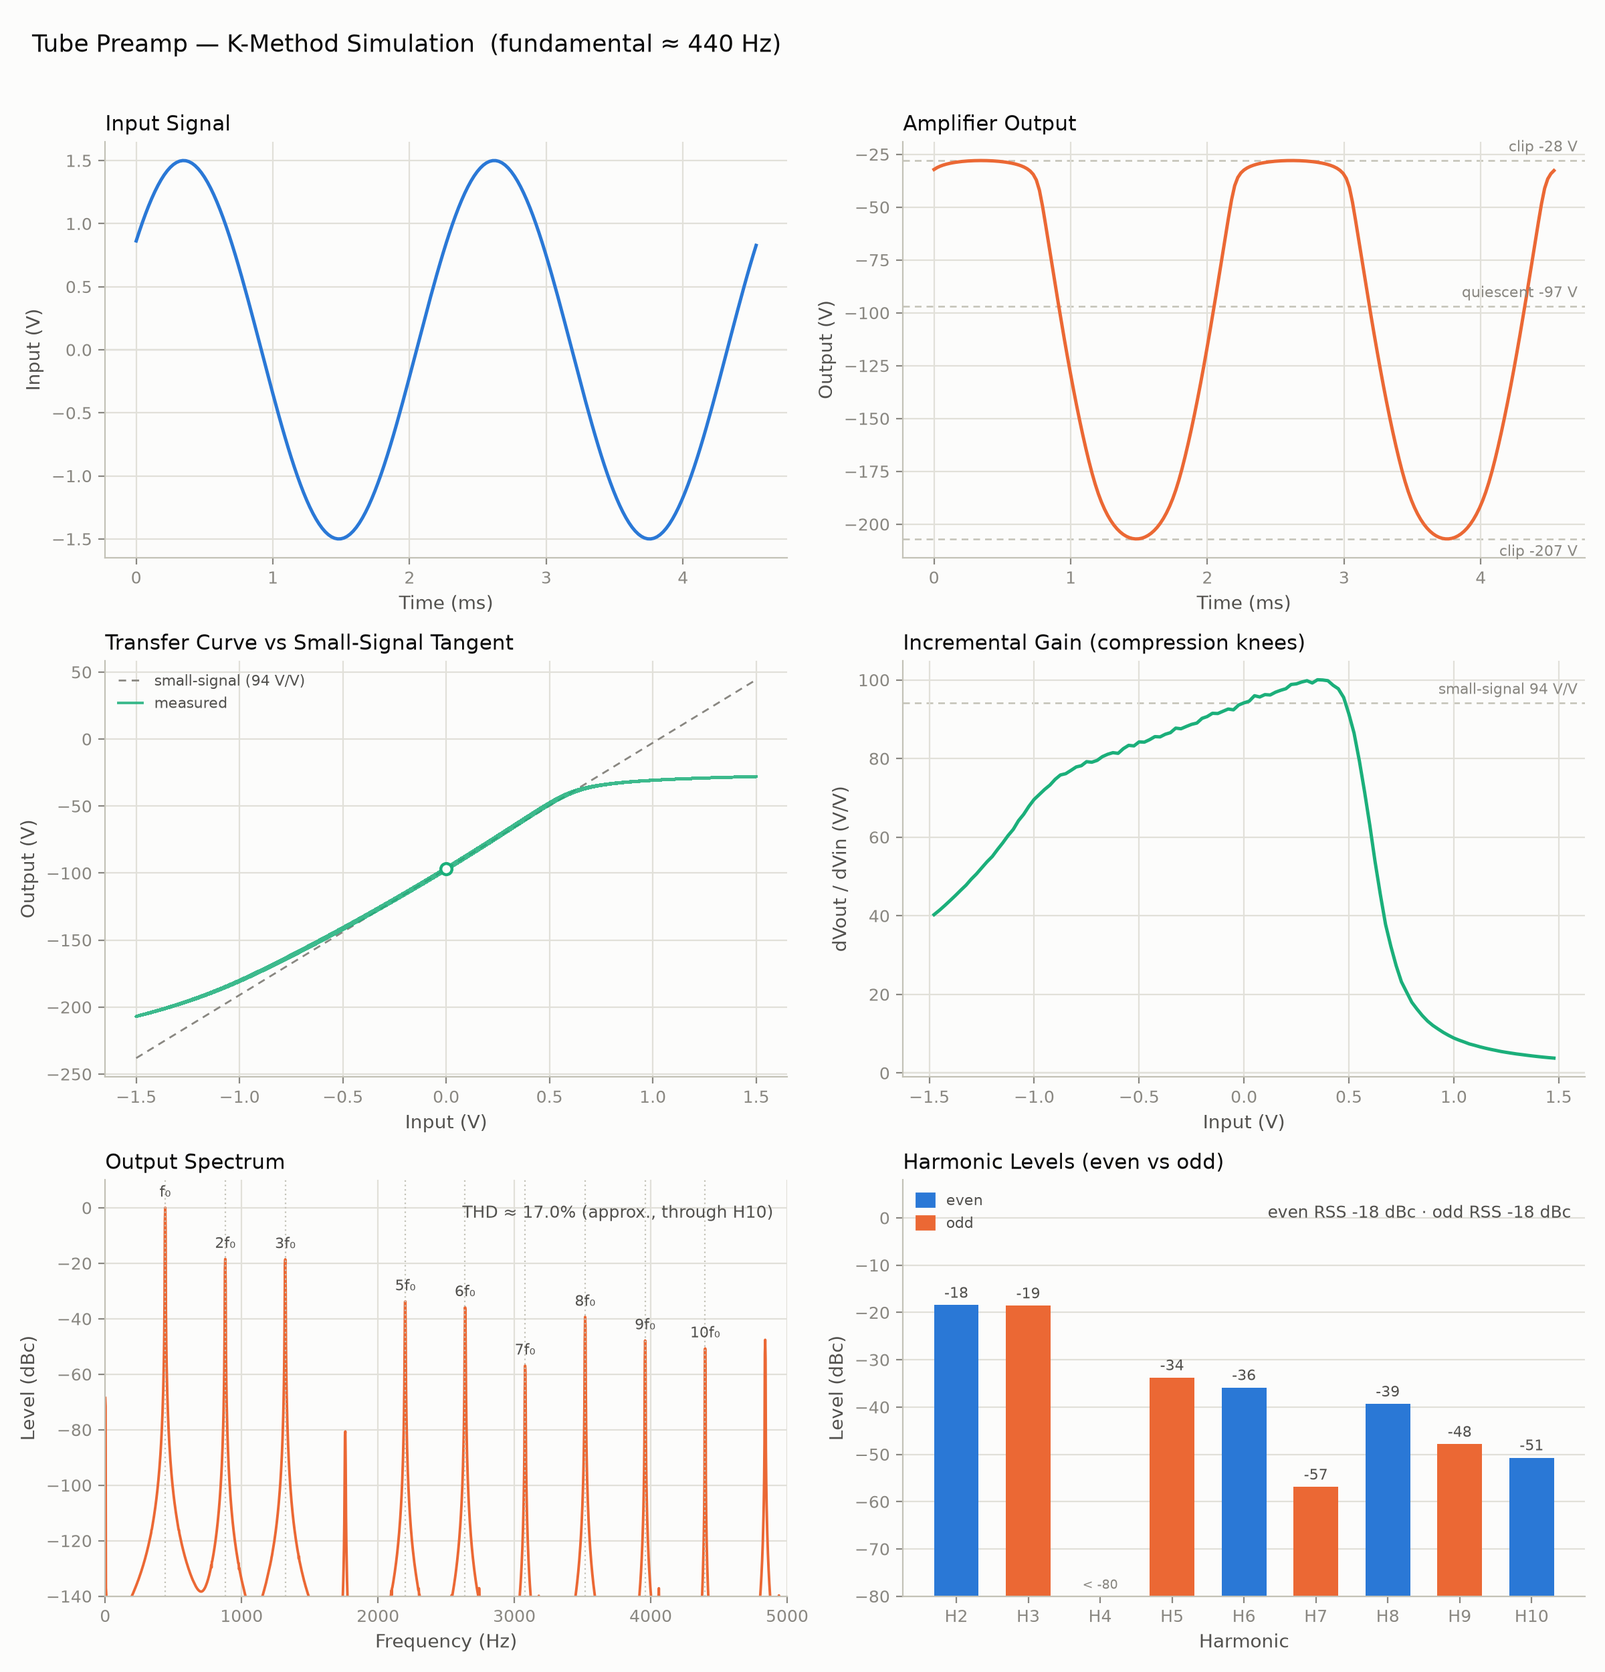
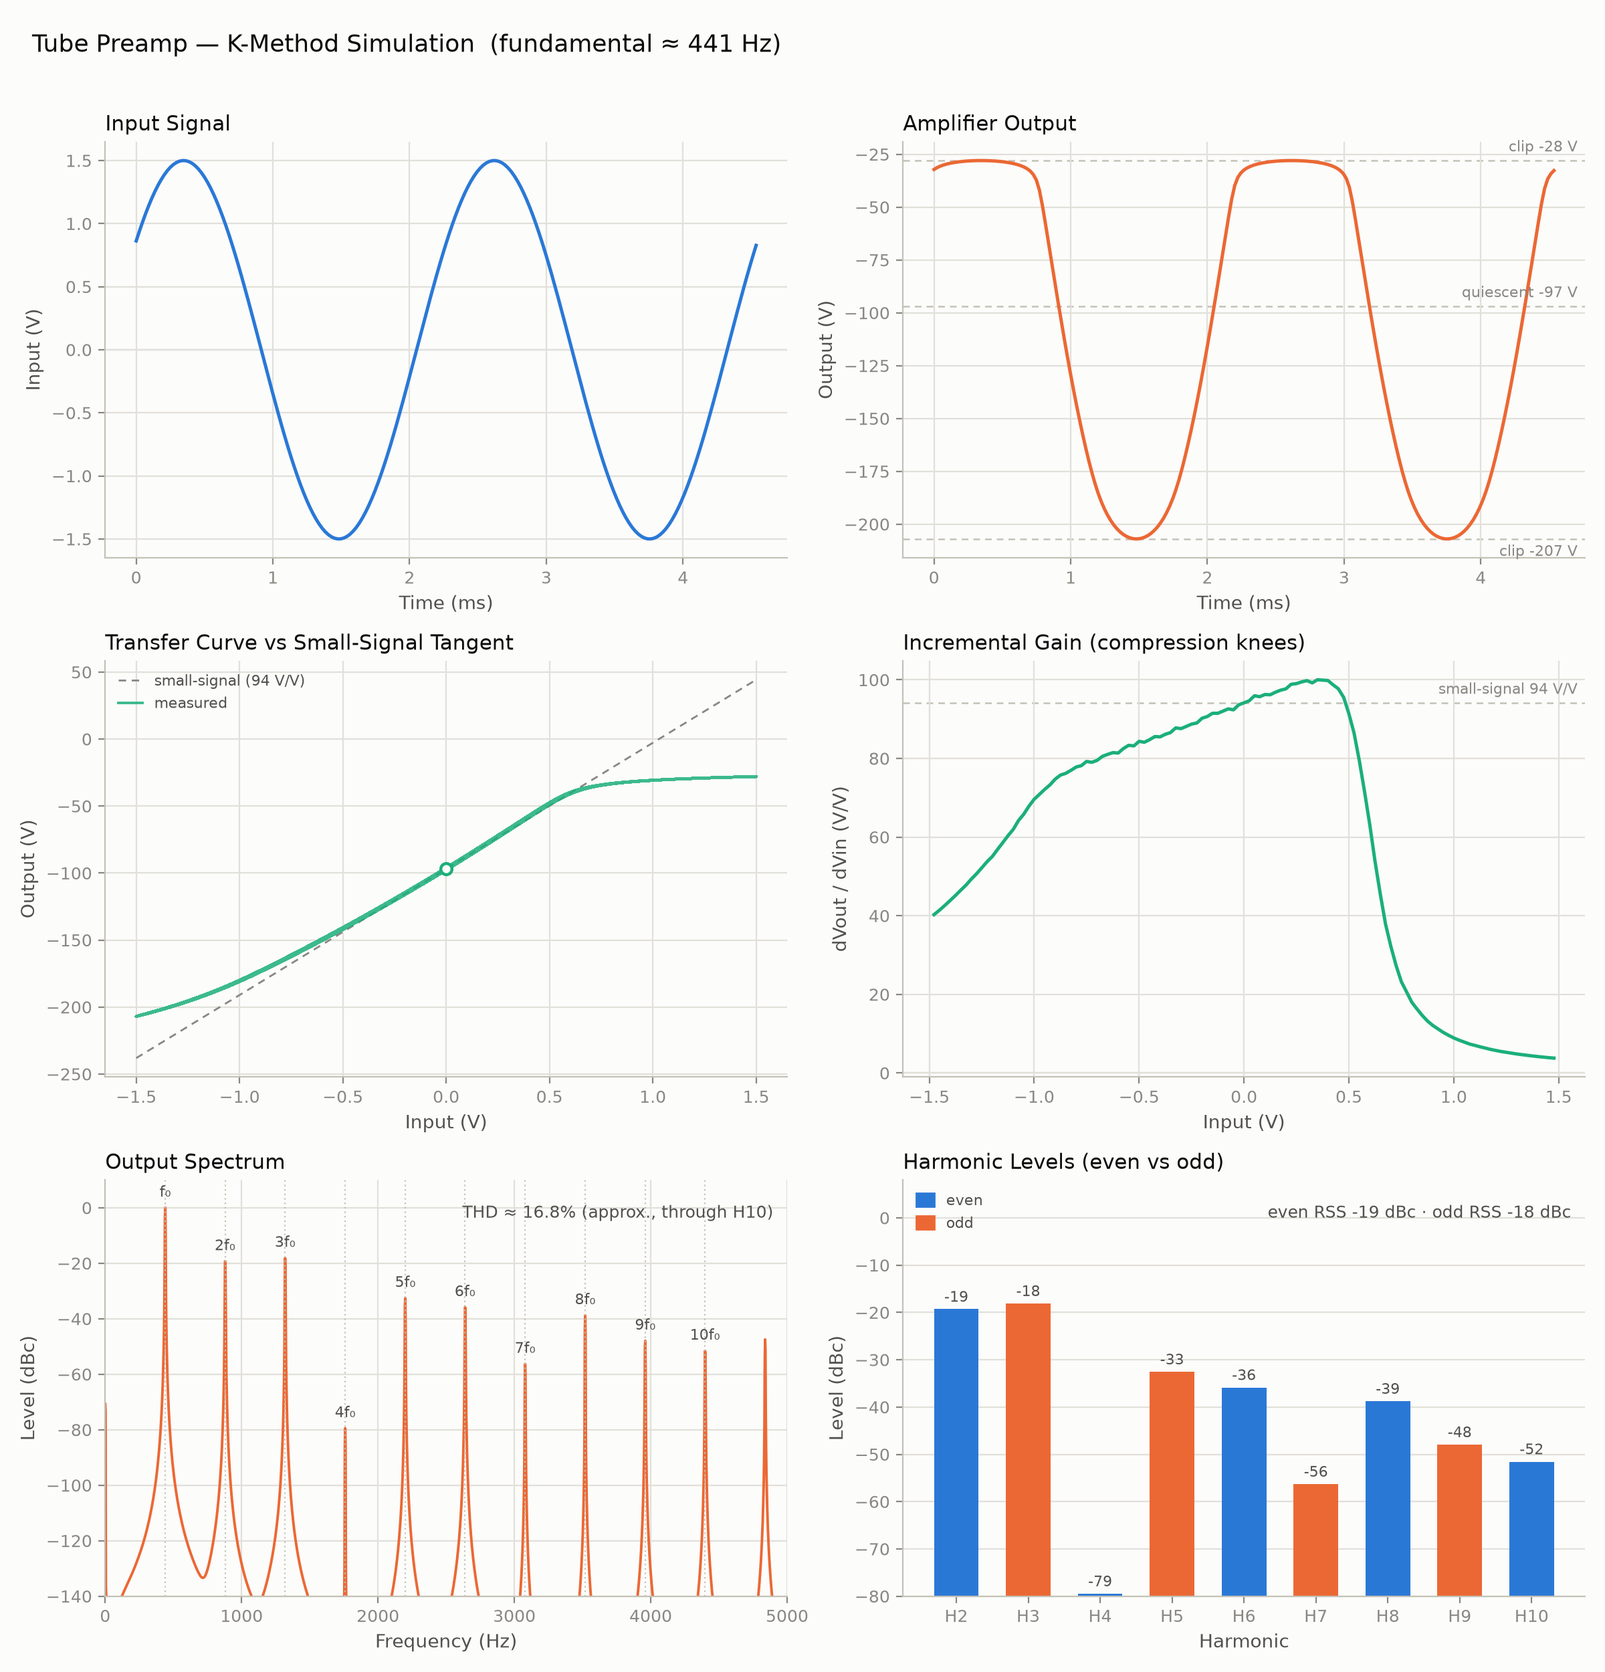
Add analytic Jacobian and 8x oversampling
Analytic Jacobian: TubeModel gains grid_current_dvgk and
anode_current_derivatives (chain rule through the Koren softplus, which
differentiates to a logistic sigmoid); compute_jacobian fills the 6
structurally nonzero entries instead of 8 finite-difference current
evaluations. Where the +/-50 exp clamp saturates, the implemented softplus
is constant, so the derivative is exactly zero there. Verified against
central differences to 4e-7 relative error across all presets; ~2x faster
end-to-end at the same rate.

Oversampling: the nonlinear loop runs at sample_rate * oversample_factor
(default 8, 1 disables) so clipping harmonics fall below the internal
Nyquist instead of aliasing into the audio band. One linear-phase Kaiser
windowed-sinc lowpass (~90 dB, transition 0.9-1.0x base Nyquist) serves as
interpolation and decimation filter; its group delay is compensated exactly
and the filter-edge tail is trimmed. process() now exposes output_offset()
so callers align input and output sample-exactly, and main() reports
processing time (2.25x real-time at 8x).

ngspice cross-validation passes unchanged: DC point identical, transfer
curve mean deviation 4 mV, harmonics within 0.01 dB. Example figures
regenerated; the spectrum floor is cleaner and H4 now resolves at -79 dBc.

diff --git a/main.cpp b/main.cpp
@@ -20,6 +20,8 @@
 #include <iomanip>
 #include <map>
 #include <stdexcept>
+#include <utility>
+#include <chrono>
 #include <Eigen/Dense>
 
 // Constants
@@ -34,12 +36,17 @@ namespace Constants {
     // far more generous iteration budget than the per-sample solve.
     constexpr int DC_SOLVE_MAX_ITERATIONS = 200;
     constexpr double EXP_CLAMP_LIMIT = 50.0;
-    constexpr double JACOBIAN_STEP_SIZE = 1e-7;
     constexpr double DAMPING_REDUCTION_FACTOR = 0.5;
     constexpr double DAMPING_GROWTH_FACTOR = 1.1;
     // Koren's (1 + sign(E1)) term for E1 > 0.
     constexpr double TUBE_IA_SCALE_FACTOR = 2.0;
     constexpr size_t MAX_CONVERGENCE_WARNINGS = 10;
+    // Anti-aliasing/interpolation filter for oversampled runs: ~90 dB Kaiser
+    // design with the transition band from 0.9x to 1.0x the base-rate
+    // Nyquist, which sets the tap count per unit of oversampling factor.
+    constexpr double OS_FILTER_KAISER_BETA = 8.96;
+    constexpr size_t OS_FILTER_TAPS_PER_FACTOR = 115;
+    constexpr double OS_FILTER_CUTOFF_BASE = 0.475;  // cycles/sample at base rate
 }
 
 // Type aliases
@@ -109,9 +116,130 @@ public:
                             std::pow(ip, p_.ex) / p_.kg);
     }
 
+    // d(grid_current)/d(vgk). The softplus knee differentiates to a logistic
+    // sigmoid; epsilon > 1 keeps the power-term derivative finite at s -> 0.
+    // Where the exp clamp saturates, the implemented softplus is constant, so
+    // its exact derivative is zero (far outside the operating region).
+    double grid_current_dvgk(double vgk) const {
+        const double raw = p_.cg * vgk;
+        if (std::abs(raw) >= Constants::EXP_CLAMP_LIMIT) return 0.0;
+        const double s = std::log1p(std::exp(raw)) / p_.cg;
+        const double sigmoid = 1.0 / (1.0 + std::exp(-raw));
+        return p_.gg * p_.epsilon * std::pow(s, p_.epsilon - 1.0) * sigmoid;
+    }
+
+    // {d(anode_current)/d(vak), d(anode_current)/d(vgk)} by the chain rule
+    // through ip = (vak/kp) * softplus(kp * veff).
+    std::pair<double, double> anode_current_derivatives(double vak, double vgk) const {
+        if (vak <= 0) return {0.0, 0.0};
+
+        const double root = std::sqrt(p_.kvb + vak * vak);
+        const double veff = 1.0 / p_.mu + (vgk + p_.vct) / root;
+        const double raw = p_.kp * veff;
+        const double t = std::clamp(raw,
+                                    -Constants::EXP_CLAMP_LIMIT,
+                                    Constants::EXP_CLAMP_LIMIT);
+        const double sp = std::log1p(std::exp(t));
+        // Where the clamp saturates, sp is constant wrt the voltages and only
+        // the (vak/kp) prefactor of ip still varies.
+        const double sigmoid = (std::abs(raw) < Constants::EXP_CLAMP_LIMIT)
+            ? 1.0 / (1.0 + std::exp(-t)) : 0.0;
+        const double ip = (vak / p_.kp) * sp;
+        if (ip <= 0) return {0.0, 0.0};
+
+        const double dia_dip = Constants::TUBE_IA_SCALE_FACTOR * p_.ex *
+                               std::pow(ip, p_.ex - 1.0) / p_.kg;
+        const double dveff_dvak = -(vgk + p_.vct) * vak / (root * root * root);
+        const double dip_dvak = sp / p_.kp + vak * sigmoid * dveff_dvak;
+        const double dip_dvgk = vak * sigmoid / root;
+        return {dia_dip * dip_dvak, dia_dip * dip_dvgk};
+    }
+
 private:
     const TubeModelParams p_;
 };
+
+// =============================================================================
+//                      RESAMPLING (oversampling support)
+// =============================================================================
+//
+// The nonlinear loop runs at oversample_factor times the output rate so that
+// clipping harmonics fall below the internal Nyquist instead of aliasing into
+// the audio band. One linear-phase Kaiser-windowed-sinc lowpass serves as
+// both the interpolation and the anti-aliasing (decimation) filter; its group
+// delay is an integer number of internal samples and is compensated exactly,
+// keeping the decimated output sample-aligned with the base-rate input.
+
+namespace resample {
+
+double bessel_i0(double x) {
+    double sum = 1.0, term = 1.0;
+    for (int k = 1; k < 64; ++k) {
+        term *= (x * x) / (4.0 * k * k);
+        sum += term;
+        if (term < sum * 1e-16) break;
+    }
+    return sum;
+}
+
+// Odd-length, unity-DC-gain lowpass. cutoff is in cycles per sample at the
+// rate the filter runs at; 0.5 is that rate's Nyquist.
+std::vector<double> kaiser_lowpass(size_t taps, double cutoff, double beta) {
+    const int mid = static_cast<int>(taps - 1) / 2;
+    std::vector<double> h(taps);
+    double sum = 0.0;
+    const double norm = bessel_i0(beta);
+    for (size_t n = 0; n < taps; ++n) {
+        const int m = static_cast<int>(n) - mid;
+        const double sinc = (m == 0)
+            ? 2.0 * cutoff
+            : std::sin(2.0 * M_PI * cutoff * m) / (M_PI * m);
+        const double r = static_cast<double>(m) / mid;
+        h[n] = sinc * bessel_i0(beta * std::sqrt(1.0 - r * r)) / norm;
+        sum += h[n];
+    }
+    for (double& v : h) v /= sum;
+    return h;
+}
+
+// Zero-stuff by factor and lowpass, exploiting the stuffed zeros (each input
+// sample scatters through the kernel once). Gain factor restores the level.
+std::vector<double> upsample_fir(const std::vector<double>& in, int factor,
+                                 const std::vector<double>& h) {
+    const int mid = static_cast<int>(h.size() - 1) / 2;
+    const long n_out = static_cast<long>(in.size()) * factor;
+    std::vector<double> out(n_out, 0.0);
+    for (size_t j = 0; j < in.size(); ++j) {
+        const double x = in[j] * factor;
+        const long base = static_cast<long>(j) * factor + mid;
+        for (size_t k = 0; k < h.size(); ++k) {
+            const long i = base - static_cast<long>(k);
+            if (i >= 0 && i < n_out) out[i] += h[k] * x;
+        }
+    }
+    return out;
+}
+
+// Lowpass below the base-rate Nyquist and keep every factor-th sample,
+// computing only the samples that survive decimation.
+std::vector<double> decimate_fir(const std::vector<double>& in, int factor,
+                                 const std::vector<double>& h) {
+    const int mid = static_cast<int>(h.size() - 1) / 2;
+    const long n_in = static_cast<long>(in.size());
+    std::vector<double> out(in.size() / factor, 0.0);
+    for (size_t i = 0; i < out.size(); ++i) {
+        const long center = static_cast<long>(i) * factor + mid;
+        double acc = 0.0;
+        for (size_t k = 0; k < h.size(); ++k) {
+            const long idx = center - static_cast<long>(k);
+            if (idx >= 0 && idx < n_in) acc += h[k] * in[idx];
+        }
+        out[i] = acc;
+    }
+    return out;
+}
+
+}  // namespace resample
 
 // =============================================================================
 //                            TUBE AMPLIFIER CONFIGURATION
@@ -130,6 +258,9 @@ struct TubeAmpConfig {
     
     // Operating parameters
     double sample_rate = 44100.0;
+    // The nonlinear solve runs at sample_rate * oversample_factor; the output
+    // is anti-alias filtered back down to sample_rate. 1 disables resampling.
+    int oversample_factor = 8;
     double gain = 2.0;
     double bias_voltage = 325.0;
     
@@ -144,6 +275,9 @@ struct TubeAmpConfig {
     void validate() const {
         if (sample_rate <= 0) {
             throw std::invalid_argument("Sample rate must be positive");
+        }
+        if (oversample_factor < 1) {
+            throw std::invalid_argument("Oversample factor must be >= 1");
         }
         if (newton_tolerance <= 0) {
             throw std::invalid_argument("Newton tolerance must be positive");
@@ -162,31 +296,45 @@ struct TubeAmpConfig {
 class TubeAmplifier {
 public:
     explicit TubeAmplifier(const TubeAmpConfig& config)
-        : cfg_(config), 
-          tube1_(cfg_.tube1_params), 
+        : cfg_(config),
+          tube1_(cfg_.tube1_params),
           tube2_(cfg_.tube2_params),
-          dt_(1.0 / cfg_.sample_rate), 
+          dt_(1.0 / (cfg_.sample_rate * std::max(1, cfg_.oversample_factor))),
           a_(2.0 / dt_),
-          convergence_warning_count_(0) {
-        
+          convergence_warning_count_(0),
+          output_offset_(0) {
+
         cfg_.validate();
+        if (cfg_.oversample_factor > 1) {
+            size_t taps = Constants::OS_FILTER_TAPS_PER_FACTOR *
+                          static_cast<size_t>(cfg_.oversample_factor) + 1;
+            if (taps % 2 == 0) ++taps;
+            kernel_ = resample::kaiser_lowpass(
+                taps,
+                Constants::OS_FILTER_CUTOFF_BASE / cfg_.oversample_factor,
+                Constants::OS_FILTER_KAISER_BETA);
+        }
         initialize_state_space();
         solve_dc_operating_point();
     }
 
     std::vector<double> process(const std::vector<double>& x_in) {
-        const size_t N = x_in.size();
-        if (N == 0) return {};
+        if (x_in.empty()) return {};
+        const int factor = cfg_.oversample_factor;
+        const std::vector<double> x_int = (factor > 1)
+            ? resample::upsample_fir(x_in, factor, kernel_)
+            : x_in;
+        const size_t N = x_int.size();
 
         // Pre-allocate all working memory
         Eigen::Matrix<double, 2, Eigen::Dynamic> u(2, N);
         Eigen::Matrix<double, 1, Eigen::Dynamic> x_state(1, N);
         Eigen::Matrix<double, 4, Eigen::Dynamic> i_tube(4, N);
         Eigen::Matrix<double, 4, Eigen::Dynamic> v_nodes(4, N);
-        
+
         // Start from the quiescent operating point, so sample 0 is already a
         // self-consistent solution rather than an unsolved guess.
-        prepare_input(x_in, u);
+        prepare_input(x_int, u);
         x_state.setZero();
         v_nodes.col(0) = v_dc_;
         x_state.col(0) = x_dc_;
@@ -198,6 +346,10 @@ public:
         // Extract and prepare output
         return extract_output(i_tube, N);
     }
+
+    // Index into the ORIGINAL input where the returned output starts (the
+    // transient trim), so callers can align input and output sample-exactly.
+    size_t output_offset() const { return output_offset_; }
 
 private:
     void initialize_state_space() {
@@ -318,18 +470,18 @@ private:
         );
     }
     
+    // Analytic Jacobian of the tube currents. Each tube couples only to its
+    // own grid and anode voltages, so just 6 of the 16 entries are nonzero.
     Mat4d compute_jacobian(const Vec4d& v) const {
         Mat4d J = Mat4d::Zero();
-        const double h = Constants::JACOBIAN_STEP_SIZE;
-        
-        // Central difference approximation
-        for (int i = 0; i < 4; ++i) {
-            Vec4d v_plus = v;
-            Vec4d v_minus = v;
-            v_plus(i) += h;
-            v_minus(i) -= h;
-            J.col(i) = (compute_tube_currents(v_plus) - compute_tube_currents(v_minus)) / (2.0 * h);
-        }
+        J(0, 0) = tube1_.grid_current_dvgk(v(0));
+        const auto [dia1_dvak, dia1_dvgk] = tube1_.anode_current_derivatives(v(1), v(0));
+        J(1, 0) = dia1_dvgk;
+        J(1, 1) = dia1_dvak;
+        J(2, 2) = tube2_.grid_current_dvgk(v(2));
+        const auto [dia2_dvak, dia2_dvgk] = tube2_.anode_current_derivatives(v(3), v(2));
+        J(3, 2) = dia2_dvgk;
+        J(3, 3) = dia2_dvak;
         return J;
     }
 
@@ -382,18 +534,38 @@ private:
     }
 
     std::vector<double> extract_output(const Eigen::Matrix<double, 4, Eigen::Dynamic>& i_tube,
-                                      size_t N) const {
+                                       size_t n_internal) {
         // Output is the voltage the second stage's total cathode current
         // develops across rk2. Both currents must be summed before scaling by
         // the resistance: scaling only one of them adds a voltage to a current.
-        std::vector<double> y(N);
-        for (size_t i = 0; i < N; ++i) {
-            y[i] = -(i_tube(3, i) + i_tube(2, i)) * cfg_.rk2; // Inverted
+        std::vector<double> y_int(n_internal);
+        for (size_t i = 0; i < n_internal; ++i) {
+            y_int[i] = -(i_tube(3, i) + i_tube(2, i)) * cfg_.rk2; // Inverted
         }
-        
-        // Remove transient
-        const size_t transient_samples = calculate_transient_samples(N);
-        return std::vector<double>(y.begin() + transient_samples, y.end());
+
+        std::vector<double> y = (cfg_.oversample_factor > 1)
+            ? resample::decimate_fir(y_int, cfg_.oversample_factor, kernel_)
+            : std::move(y_int);
+
+        // Trim the bias-shift transient from the head and the filter-edge
+        // samples (whose convolution window hangs past the data) from the
+        // tail; the head edge is buried inside the much longer transient.
+        const size_t head = calculate_transient_samples(y.size());
+        const size_t tail = filter_edge_samples();
+        output_offset_ = head;
+        if (head + tail >= y.size()) {
+            return {};
+        }
+        return std::vector<double>(y.begin() + head, y.end() - tail);
+    }
+
+    // Decimated samples at each end whose filter window extends past the
+    // available data (both the interpolation and the decimation filter
+    // contribute half a kernel of group delay each).
+    size_t filter_edge_samples() const {
+        if (cfg_.oversample_factor <= 1) return 0;
+        const size_t half = (kernel_.size() - 1) / 2;
+        return 2 * half / static_cast<size_t>(cfg_.oversample_factor) + 1;
     }
 
     // Slowest time constant of the linear subsystem (here the cathode bypass
@@ -430,6 +602,8 @@ private:
     const double dt_;
     const double a_;
     size_t convergence_warning_count_;
+    size_t output_offset_;
+    std::vector<double> kernel_;  // shared interpolation/anti-alias filter
     
     // State-space matrices
     Mat1d A_, a_eye_, H_;
@@ -519,12 +693,24 @@ int main() {
         
         // Process
         TubeAmplifier amp(cfg);
-        std::cout << "Processing " << x_in.size() << " samples...\n";
+        std::cout << "Processing " << x_in.size() << " samples ("
+                  << cfg.oversample_factor << "x oversampled)...\n";
+        const auto t_start = std::chrono::steady_clock::now();
         const auto y_raw = amp.process(x_in);
-        
-        // Prepare for output
-        const size_t transient_samples = x_in.size() - y_raw.size();
-        std::vector<double> x_in_trimmed(x_in.begin() + transient_samples, x_in.end());
+        const double elapsed_s = std::chrono::duration<double>(
+            std::chrono::steady_clock::now() - t_start).count();
+        const double audio_s = x_in.size() / cfg.sample_rate;
+        std::cout << "Processed in " << elapsed_s * 1000.0 << " ms ("
+                  << audio_s / elapsed_s << "x real-time)\n";
+
+        if (y_raw.empty()) {
+            throw std::runtime_error("Input too short: nothing survived the transient trim");
+        }
+
+        // Align the input with the trimmed output
+        const size_t offset = amp.output_offset();
+        std::vector<double> x_in_trimmed(x_in.begin() + offset,
+                                         x_in.begin() + offset + y_raw.size());
         
         // Save results
         std::cout << "Saving results to results.csv...\n";

diff --git a/README.md b/README.md
@@ -27,8 +27,13 @@ spectrum with harmonics annotated plus an even/odd harmonic breakdown.
 - The two tubes contribute nonlinear grid and anode currents (Koren model)
   that couple back into the circuit's node voltages.
 - At every sample, a 4x4 nonlinear system for the tube node voltages is
-  solved with Newton's method (finite-difference Jacobian, adaptive damping,
+  solved with Newton's method (analytic Jacobian, adaptive damping,
   LU decomposition with a pseudo-inverse fallback for ill-conditioned steps).
+- The nonlinear loop runs oversampled (8x by default) so that clipping
+  harmonics fall below the internal Nyquist instead of aliasing into the
+  audio band. A linear-phase Kaiser windowed-sinc filter (~90 dB) handles
+  interpolation and decimation, with its group delay compensated exactly so
+  the output stays sample-aligned with the input.
 - Before processing starts, the same solver is run against the steady-state
   (`dx/dt = 0`) form of the system to find the quiescent DC operating point,
   and the simulation is initialized there. This removes the cold-start
@@ -95,7 +100,8 @@ point and within 0.01 dB on all harmonics through H10.
 
 Amplifier parameters live in `TubeAmpConfig` in `main.cpp`: circuit values
 (plate/grid/cathode resistors, cathode bypass cap), gain, bias voltage,
-sample rate, and Newton solver tolerance/iteration limits. Tube presets
+sample rate, oversampling factor (`oversample_factor`, set to 1 to disable),
+and Newton solver tolerance/iteration limits. Tube presets
 (`12AX7`, `12AU7`, `12AT7`) use Norman Koren's published parameter fits
 (mu, Ex, Kg1, Kp, Kvb) and are defined in `TUBE_PRESETS`; they can be
 assigned to `tube1_params` / `tube2_params`.
